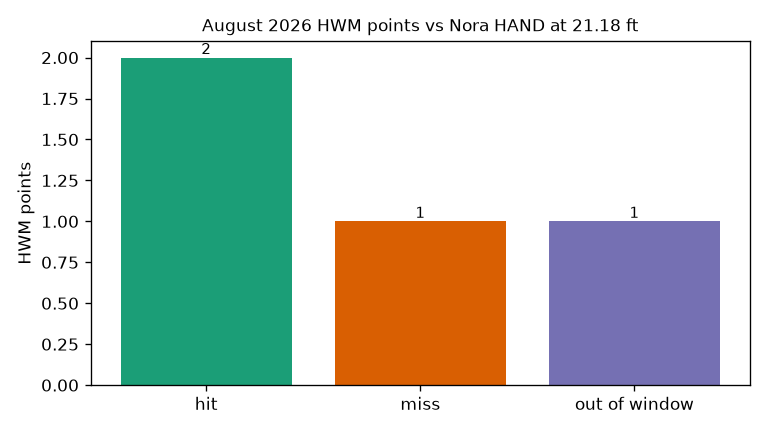
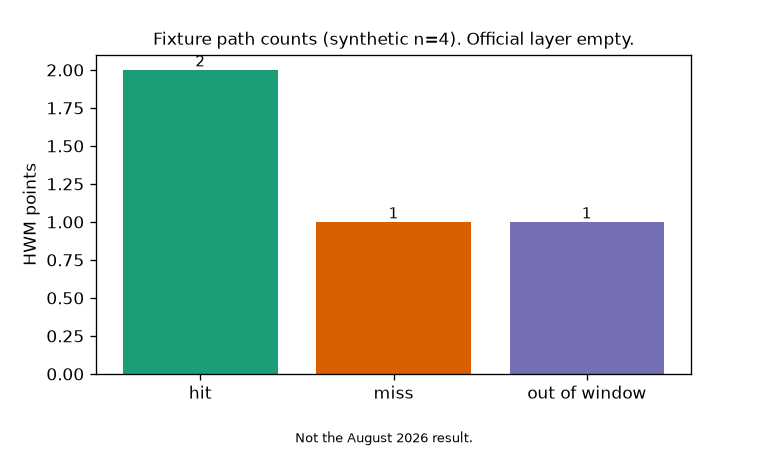
Restamp README figures so the locked finding is readable.
Keep science JSON unchanged. Bars and maps now carry the contest
(RMSE vs yesterday, CPC vs equal chance, two-answer Re-TRAC, fixture
HWM titles). Captions stay claim-scanned.

Changed region(s): [[0.0, 0.0301, 1.0, 0.9931]]

diff --git a/src/hwmcrest/figure.py b/src/hwmcrest/figure.py
@@ -9,13 +9,46 @@ from typing import Any
 import numpy as np
 
 from hwmcrest.claims import require_clean
-from hwmcrest.config import GAGE_ID, MAX_FIGURES, WET_WET
+from hwmcrest.config import GAGE_ID, MAX_FIGURES
 from hwmcrest.errors import FigureCapError, GateError
+
+FIG1_FIXTURE_TITLE = (
+    "FIXTURE / not live / synthetic: four HWM points on a tiny crest mask"
+)
+FIG1_FIXTURE_SUB = "Not the August 2026 result."
+FIG2_FIXTURE_TITLE = "Fixture path counts (synthetic n=4). Official layer empty."
+FIG2_FIXTURE_FOOTER = "Not the August 2026 result."
+FIG1_LIVE_TITLE = f"{GAGE_ID} crest 21.18 ft: HWM points on HAND wet mask"
+FIG1_LIVE_SUB = (
+    "Green: hit. Orange: miss (dry in window). Purple: outside the Nora window."
+)
+FIG2_LIVE_TITLE = "HWM points vs Nora HAND at 21.18 ft"
 
 
 def _cap(n: int) -> None:
     if n > MAX_FIGURES:
         raise FigureCapError(f"this tree stops at {MAX_FIGURES} figures")
+
+
+def map_copy(*, fixture: bool) -> tuple[str, str]:
+    if fixture:
+        title, sub = FIG1_FIXTURE_TITLE, FIG1_FIXTURE_SUB
+    else:
+        title, sub = FIG1_LIVE_TITLE, FIG1_LIVE_SUB
+    require_clean(title, source="fig1_title")
+    require_clean(sub, source="fig1_sub")
+    return title, sub
+
+
+def counts_copy(*, fixture: bool) -> tuple[str, str]:
+    if fixture:
+        title, footer = FIG2_FIXTURE_TITLE, FIG2_FIXTURE_FOOTER
+    else:
+        title, footer = FIG2_LIVE_TITLE, ""
+    require_clean(title, source="fig2_title")
+    if footer:
+        require_clean(footer, source="fig2_footer")
+    return title, footer
 
 
 def write_map(
@@ -51,16 +84,35 @@ def write_map(
     ax.set_xticks([])
     ax.set_yticks([])
     ax.set_title(title, fontsize=10)
-    fig.text(0.5, 0.04, subtitle, ha="center", fontsize=8)
-    fig.subplots_adjust(bottom=0.10, top=0.90)
+    from matplotlib.patches import Patch
+
+    legend_labels = ("hit", "miss (dry in window)", "out of window")
+    for lab in legend_labels:
+        require_clean(lab, source="fig1_legend")
+    ax.legend(
+        handles=[
+            Patch(facecolor="#1b9e77", edgecolor="white", label=legend_labels[0]),
+            Patch(facecolor="#d95f02", edgecolor="white", label=legend_labels[1]),
+            Patch(facecolor="#7570b3", edgecolor="white", label=legend_labels[2]),
+        ],
+        loc="lower right",
+        fontsize=7,
+        framealpha=0.92,
+    )
+    fig.text(0.5, 0.03, subtitle, ha="center", fontsize=8)
+    fig.subplots_adjust(bottom=0.12, top=0.90)
     dest.parent.mkdir(parents=True, exist_ok=True)
     fig.savefig(dest, dpi=120)
     plt.close(fig)
     return dest
 
 
-def write_counts(dest: Path, *, table: dict[str, Any], title: str) -> Path:
+def write_counts(
+    dest: Path, *, table: dict[str, Any], title: str, footer: str = ""
+) -> Path:
     require_clean(title, source="fig2_title")
+    if footer:
+        require_clean(footer, source="fig2_footer")
     import matplotlib
 
     matplotlib.use("Agg")
@@ -68,36 +120,45 @@ def write_counts(dest: Path, *, table: dict[str, Any], title: str) -> Path:
 
     labels = ["hit", "miss", "out of window"]
     vals = [int(table["n_hit"]), int(table["n_miss"]), int(table["n_out"])]
-    fig, ax = plt.subplots(figsize=(6.4, 3.6))
+    fig, ax = plt.subplots(figsize=(6.4, 3.8))
     ax.bar(labels, vals, color=["#1b9e77", "#d95f02", "#7570b3"])
     ax.set_ylabel("HWM points")
     ax.set_title(title, fontsize=10)
     for i, v in enumerate(vals):
         ax.text(i, v, str(v), ha="center", va="bottom", fontsize=9)
-    fig.tight_layout()
+    if footer:
+        fig.text(0.5, 0.03, footer, ha="center", fontsize=8)
+        fig.subplots_adjust(bottom=0.18, top=0.88)
+    else:
+        fig.tight_layout()
     dest.parent.mkdir(parents=True, exist_ok=True)
     fig.savefig(dest, dpi=120)
     plt.close(fig)
     return dest
 
 
-def write_two(log_dir: Path, *, wet: np.ndarray, table: dict[str, Any]) -> list[Path]:
+def write_two(
+    log_dir: Path, *, wet: np.ndarray, table: dict[str, Any], fixture: bool = False
+) -> list[Path]:
     if wet.size == wet.shape[0] * wet.shape[1] and np.all(np.asarray(wet) != 255):
         # HUC-wide check: all cells comparable
         if int((np.asarray(wet) != 255).sum()) == wet.size:
             raise GateError("figure refuses a HUC-wide mask")
+    t1, s1 = map_copy(fixture=fixture)
+    t2, f2 = counts_copy(fixture=fixture)
     paths = [
         write_map(
             log_dir / "hwm_on_crest.png",
             wet=wet,
             scored=table["points"],
-            title=f"{GAGE_ID} crest 21.18 ft: HWM points on HAND wet mask",
-            subtitle="Green: hit. Orange: miss (dry in window). Purple: outside the Nora window.",
+            title=t1,
+            subtitle=s1,
         ),
         write_counts(
             log_dir / "hwm_counts.png",
             table=table,
-            title="August 2026 HWM points vs Nora HAND at 21.18 ft",
+            title=t2,
+            footer=f2,
         ),
     ]
     _cap(len(paths))

diff --git a/tests/test_pipeline.py b/tests/test_pipeline.py
@@ -3,13 +3,37 @@
 from pathlib import Path
 
 from hwmcrest.config import QUESTION
+from hwmcrest.figure import (
+    FIG2_FIXTURE_TITLE,
+    counts_copy,
+    map_copy,
+)
 from hwmcrest.pipeline import stage0_fixture
+
+
+def test_fixture_titles_say_synthetic_not_live() -> None:
+    t1, s1 = map_copy(fixture=True)
+    t2, f2 = counts_copy(fixture=True)
+    assert "FIXTURE" in t1
+    assert "not live" in t1
+    assert "synthetic" in t1
+    assert s1 == "Not the August 2026 result."
+    assert t2 == FIG2_FIXTURE_TITLE
+    assert "Official layer empty" in t2
+    assert t2 != "August 2026 HWM points vs Nora HAND at 21.18 ft"
+    assert f2 == "Not the August 2026 result."
+    live_t2, _ = counts_copy(fixture=False)
+    assert live_t2 != "August 2026 HWM points vs Nora HAND at 21.18 ft"
 
 
 def test_fixture_two_figures(tmp_path: Path) -> None:
     report = stage0_fixture(tmp_path)
     assert report["question"] == QUESTION
     assert report["tests_fema"] is False
+    assert report["fixture"] is True
+    assert report["table"]["n_hit"] == 2
+    assert report["table"]["n_miss"] == 1
+    assert report["table"]["n_out"] == 1
     assert (tmp_path / "hwm_on_crest.png").is_file()
     assert (tmp_path / "hwm_counts.png").is_file()
     assert report["figures"] == ["hwm_on_crest.png", "hwm_counts.png"]

diff --git a/src/hwmcrest/pipeline.py b/src/hwmcrest/pipeline.py
@@ -48,7 +48,7 @@ def stage0_fixture(log_dir: Path) -> dict:
     pts = fixture_points_lonlat()
     table = score_points(pts, wet=blobs["wet"], transform=blobs["transform"], crs=blobs["crs"])
     require_clean(QUESTION, source="question")
-    paths = write_two(log_dir, wet=blobs["wet"], table=table)
+    paths = write_two(log_dir, wet=blobs["wet"], table=table, fixture=True)
     require_figures(n_figures=len(paths), thread_id="fix.figs")
     log_dir.mkdir(parents=True, exist_ok=True)
     report = {
@@ -93,7 +93,7 @@ def run_live(log_dir: Path) -> dict:
         fetched_ok=True,
         thread_id="live.sB",
     )
-    paths = write_two(log_dir, wet=wet, table=table)
+    paths = write_two(log_dir, wet=wet, table=table, fixture=False)
     require_figures(n_figures=len(paths), thread_id="live.figs")
     require_stage(
         current_stage="B",

diff --git a/tests/test_fixture_frozen.py b/tests/test_fixture_frozen.py
@@ -8,8 +8,8 @@ REPO = Path(__file__).resolve().parents[1]
 FIXTURE = REPO / "logs" / "stage0_fixture"
 
 LOCKED_SHA256 = {
[5 lines of base64/hex data omitted]
 }
 

diff --git a/src/hwmcrest/config.py b/src/hwmcrest/config.py
@@ -24,7 +24,7 @@ NORA_CREST_WET = (
     NORA_DEFAULT / "logs" / "nora_live" / "rasters" / "wet_crest_2026-08-15.tif"
 )
 LOCKED_NORA_V1_PNG_SHA256 = (
[2 lines of base64/hex data omitted]
 )
 LOCKED_CREST_WET_SHA256 = (
[1 lines of base64/hex data omitted]
